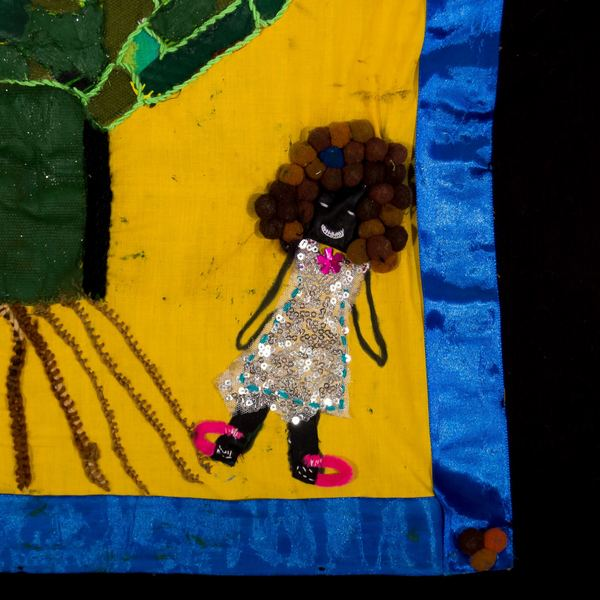
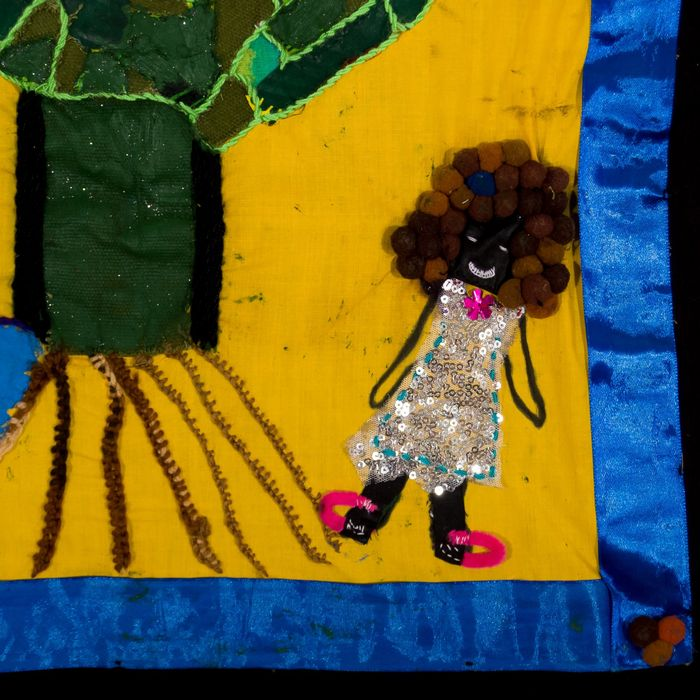
Living image mosaic on front page; new Mwangaza images; Albert Street full width with chapter link
Claude-Session: https://claude.ai/code/session_016WqrjqMFQFAt2AaBa5heCa

diff --git a/index.html b/index.html
@@ -108,7 +108,18 @@ p { margin: 0; }
 .mosaic { margin: 0; position: relative; z-index: 0; }
 .mosaic::before { content: ""; position: absolute; inset: -18px 22px 44px -18px; background: var(--cobalt); z-index: -1; }
 .tiles { display: grid; grid-template-columns: repeat(3, minmax(0, 1fr)); gap: 6px; background: #0b2545; padding: 6px; box-shadow: 0 30px 60px -20px rgba(11,37,69,.45); }
-.tiles img { display: block; width: 100%; height: auto; aspect-ratio: 1; object-fit: cover; min-width: 0; }
+.tile { position: relative; aspect-ratio: 1; overflow: hidden; background: #0b2545; min-width: 0; }
+.tile img { position: absolute; inset: 0; width: 100%; height: 100%; object-fit: cover; display: block; opacity: 0; }
+.tile img:first-child { opacity: 1; }
+@media (prefers-reduced-motion: no-preference) {
+  .tile img { animation: tilefade 18s infinite; }
+  .tile img:nth-child(1) { animation-delay: var(--d, 0s); }
+  .tile img:nth-child(2) { animation-delay: calc(var(--d, 0s) - 12s); }
+  .tile img:nth-child(3) { animation-delay: calc(var(--d, 0s) - 6s); }
+  .tile.d1 { --d: -1.5s; } .tile.d2 { --d: -3s; } .tile.d3 { --d: -4.5s; }
+  .tile img { will-change: opacity, transform; }
+}
+@keyframes tilefade { 0% { opacity: 1; transform: scale(1); } 30% { opacity: 1; } 36% { opacity: 0; transform: scale(1.06); } 94% { opacity: 0; transform: scale(1); } 100% { opacity: 1; } }
 .tiles .t-wide { grid-column: 1 / -1; aspect-ratio: 1600 / 932; }
 .mosaic figcaption { font-size: .8rem; color: var(--muted); margin-top: .9rem; text-align: right; }
 .creds { border-top: 1px solid var(--rule); }
@@ -242,7 +253,11 @@ p { margin: 0; }
 .quote cite { display: block; font-family: var(--sans); font-style: normal; font-size: .8rem; color: var(--on-dark-muted); margin-top: .7rem; letter-spacing: .02em; }
 .wide { margin: 0; }
 .wide img { display: block; width: 100%; height: auto; }
-.strip { display: grid; grid-template-columns: repeat(3, minmax(0, 1fr)); gap: .75rem; }
+.strip { display: grid; grid-template-columns: repeat(4, minmax(0, 1fr)); gap: .75rem; }
+.strip .wide { grid-column: span 2; grid-row: span 2; aspect-ratio: auto; }
+.creative .right { display: grid; gap: 1.5rem; }
+.creative .words { margin: 0; }
+.creative .words img { display: block; width: 100%; height: auto; box-shadow: 0 18px 40px -18px rgba(0,0,0,.6); transform: rotate(-1.2deg); }
 .strip figure { margin: 0; aspect-ratio: 1; overflow: hidden; }
 .strip .paper { background: #fff; padding: 1rem; }
 .strip img { width: 100%; height: 100%; object-fit: cover; display: block; transition: transform .5s ease; }
@@ -258,6 +273,17 @@ p { margin: 0; }
 .dresses img { width: 100%; height: 100%; object-fit: cover; display: block; transition: transform .5s ease; }
 .dresses figure:hover img { transform: scale(1.04); }
 .wb-credit { grid-column: 1 / -1; font-size: .82rem; color: var(--on-dark-muted); }
+.creative { overflow-x: clip; }
+.wardrobe { margin-top: 3.5rem; padding-top: 0; border-top: 0; display: block; }
+.wb-hero { position: relative; isolation: isolate; margin-inline: calc(50% - 50vw); padding-block: clamp(3rem, 7vw, 5.5rem); }
+.wb-bg { position: absolute; inset: 0; width: 100%; height: 100%; object-fit: cover; object-position: center 45%; z-index: -2; filter: grayscale(1); }
+.wb-hero::after { content: ""; position: absolute; inset: 0; z-index: -1; background: linear-gradient(90deg, rgba(7,18,34,.92) 0%, rgba(7,18,34,.78) 45%, rgba(7,18,34,.55) 100%); }
+.wb-inner { display: grid; grid-template-columns: minmax(0, 1fr) minmax(0, 1.4fr); gap: 1rem clamp(2rem, 5vw, 5rem); }
+.wb-place { color: var(--on-dark-muted); font-size: .9rem; margin-top: .6rem; }
+.wb-text { color: #d4def0; }
+.wardrobe .dresses { margin-top: .75rem; }
+.wardrobe .wb-credit { margin-top: .75rem; }
+.wb-text .links { margin-top: .5rem; }
 .wb-text strong { color: var(--on-dark); font-weight: 600; }
 .creative .foot { display: flex; flex-wrap: wrap; justify-content: space-between; align-items: center; gap: 1rem 2rem; margin-top: 1.5rem; }
 .creative .foot small { color: var(--on-dark-muted); font-size: .82rem; }
@@ -331,7 +357,7 @@ footer .wrap { padding-block: 1.5rem; display: flex; flex-wrap: wrap; gap: .5rem
   .top nav a:not(.cta) { display: none; }
 }
 @media (max-width: 720px) {
-  .wardrobe, .hero .wrap, .about .wrap, .creative .intro, .contact .wrap, .expertise, .clients { grid-template-columns: minmax(0, 1fr); }
+  .wb-inner, .hero .wrap, .about .wrap, .creative .intro, .contact .wrap, .expertise, .clients { grid-template-columns: minmax(0, 1fr); }
   .about .sec-head { position: static; }
   .about dl { grid-template-columns: minmax(0, 1fr); }
   .svc-grid, .work-grid, .bg-grid, .media-list { grid-template-columns: minmax(0, 1fr); }
@@ -344,6 +370,7 @@ footer .wrap { padding-block: 1.5rem; display: flex; flex-wrap: wrap; gap: .5rem
   .pc { min-height: 14rem; }
   .mosaic { margin-left: 18px; }
   .strip { grid-template-columns: repeat(2, minmax(0, 1fr)); }
+  .strip .wide { grid-row: auto; aspect-ratio: 1600 / 932; }
   .strip .paper { grid-column: 1 / -1; }
   .pubs li { grid-template-columns: minmax(0, 1fr); gap: .3rem; }
   .top img { height: 48px; }
@@ -383,12 +410,28 @@ footer .wrap { padding-block: 1.5rem; display: flex; flex-wrap: wrap; gap: .5rem
       </div>
       <figure class="mosaic">
         <div class="tiles">
-          <img class="t-wide" src="art-panels.jpg" alt="Large textile quilt with a blue and yellow wax-print border and six colourful collage panels on black cloth" width="1600" height="932">
-          <img src="art-quilt.jpg" alt="Textile quilt with Mwangaza Mama 2017–2019 embroidered on red, around a drawing of a woman and child" width="1000" height="939">
-          <img src="art-beads.jpg" alt="Detail of a red collage with beads, pom-poms and felt balls" width="600" height="600">
-          <img src="art-girl.jpg" alt="Detail of a smiling girl in a sequinned dress beside a tree on yellow fabric" width="600" height="600">
+          <div class="tile t-wide d0">
+            <img src="art-panels.jpg" alt="Group textile quilt from the Mwangaza Mama project">
+            <img src="albert-street.jpg" alt="80 Albert Street, Johannesburg, in black and white" loading="lazy">
+            <img src="svc-quilt.jpg" alt="Red textile collage with handwritten stories stitched on" loading="lazy">
+          </div>
+          <div class="tile d1">
+            <img src="art-quilt.jpg" alt="Mwangaza Mama title quilt">
+            <img src="wb-dress1.jpg" alt="Sculpted dress from the Wardrobe Project" loading="lazy">
+            <img src="art-becky.jpg" alt="Purple collage panel with Becky stitched above it" loading="lazy">
+          </div>
+          <div class="tile d2">
+            <img src="art-beads.jpg" alt="Beads and pom-poms on a red collage">
+            <img src="svc-workshop.jpg" alt="Hands drawing with oil pastels on brown paper in a workshop" loading="lazy">
+            <img src="wb-dress2.jpg" alt="Sculpted dress with a white feathered bodice" loading="lazy">
+          </div>
+          <div class="tile d3">
+            <img src="art-girl.jpg" alt="Stitched figure of a girl in a sequinned dress">
+            <img src="art-words.jpg" alt="Handwritten panel: In the city we have no power" loading="lazy">
+            <img src="wb-dress3.jpg" alt="Sculpted dress in grey and silver over red" loading="lazy">
+          </div>
         </div>
-        <figcaption>Textile collages from the Mwangaza Mama project, Johannesburg · <a href="#creative">About the project</a></figcaption>
+        <figcaption>From my work: Mwangaza Mama, the Wardrobe Project and 80 Albert Street · <a href="#creative">Creative methods</a></figcaption>
       </figure>
     </div>
     <div class="creds">
@@ -571,12 +614,17 @@ footer .wrap { padding-block: 1.5rem; display: flex; flex-wrap: wrap; gap: .5rem
           <p><strong>Mwangaza Mama (2017 to 2019)</strong> was a two-year creative storytelling project with a small group of cross-border migrant women in Johannesburg. Through textile collage and their own stories, the women explored everyday life in the city and the issues that affect them.</p>
           <p>Arts-based methods like these help people speak for themselves, across language barriers.</p>
         </div>
-        <blockquote class="quote">"I will speak with confidence and no fear like Winnie Mandela."<cite>Stitched on the group quilt</cite></blockquote>
+        <div class="right">
+          <figure class="words"><img src="art-words.jpg" alt="Handwritten panel stitched onto red cloth: In the city we come, we have no power and things are very different from what we hope. We have nowhere to go, it's not easy to go back and nowhere to begin. We are in confusion." loading="lazy"></figure>
+          <blockquote class="quote">"I will speak with confidence and no fear like Winnie Mandela."<cite>Stitched on the group quilt</cite></blockquote>
+        </div>
       </div>
       <div class="strip">
+        <figure class="wide"><img src="art-panels.jpg" alt="The group quilt: six collage panels, each with its maker's name, around the words I will speak with confidence and no fear like Winnie Mandela" loading="lazy"></figure>
+        <figure><img src="art-becky.jpg" alt="Purple collage panel of patterned fabric shapes, with Becky stitched in white above it" loading="lazy"></figure>
+        <figure><img src="art-girl.jpg" alt="Stitched figure of a smiling girl in a sequinned dress beside a tree on yellow cloth" loading="lazy"></figure>
         <figure class="paper"><img src="drawing.jpg" alt="Pencil drawing of a woman carrying a bag, holding a small child's hand, walking towards tall buildings in Johannesburg" loading="lazy"></figure>
         <figure><img src="art-houses.jpg" alt="Detail of hessian houses stitched under glittering green trees" loading="lazy"></figure>
-        <figure><img src="art-figures.jpg" alt="Detail of patterned fabric figures outlined in green stitching" loading="lazy"></figure>
       </div>
       <div class="foot">
         <small>Textile collages made by the women of the Mwangaza Mama project.</small>
@@ -587,16 +635,21 @@ footer .wrap { padding-block: 1.5rem; display: flex; flex-wrap: wrap; gap: .5rem
         </div>
       </div>
       <div class="wardrobe">
-        <div>
-          <span class="label">Creative methods</span>
-          <h3>The Wardrobe Project</h3>
-          <figure class="albert"><img src="albert-street.jpg" alt="Black and white photograph of a brick building, high walls and wire mesh fencing in the courtyard at 80 Albert Street, Johannesburg" width="1200" height="965" loading="lazy"><figcaption>80 Albert Street, Johannesburg</figcaption></figure>
-        </div>
+        <div class="wb-hero">
+          <img class="wb-bg" src="albert-street.jpg" alt="" aria-hidden="true" loading="lazy">
+          <div class="wrap wb-inner">
+            <div>
+              <span class="label">Creative methods</span>
+              <h3>The Wardrobe Project</h3>
+              <p class="wb-place">80 Albert Street, Johannesburg</p>
+            </div>
         <div class="wb-text">
-          <p><strong>The Wardrobe Project (2011 to 2014)</strong> was an art-based project with women living at the Usindiso Women's Shelter, 80 Albert Street, in inner-city Johannesburg. I co-ran it with Dr Glynis Clacherty from 2011 until the shelter closed in 2014.</p>
-          <p>Like Mwangaza Mama, it used art and making to create a space where women could tell their own stories in their own way.</p>
-          <p>In 2023, a fire at 80 Albert Street killed 76 people. I wrote about the building and its history in the Daily Maverick soon after. I still think often about the aftermath, and how quickly the City of Johannesburg moved to blame the dead for their own deaths. We continue to see the same callousness and dehumanisation of people today.</p>
-          <div class="links"><a class="btn solid" href="https://www.dailymaverick.co.za/article/2023-09-03-a-building-and-lives-left-to-burn-80-albert-street-must-be-remembered-in-this-way/">Read "A building and lives left to burn" ↗</a></div>
+              <p><strong>The Wardrobe Project (2011 to 2014)</strong> was an art-based project with women living at the Usindiso Women's Shelter, 80 Albert Street, in inner-city Johannesburg. I co-ran it with Dr Glynis Clacherty from 2011 until the shelter closed in 2014.</p>
+              <p>Like Mwangaza Mama, it used art and making to create a space where women could tell their own stories in their own way. Glynis and I wrote about the project in "Shaping New Spaces", a chapter in <i>Healing and Change in the City of Gold</i> (Springer, 2015).</p>
+              <p>In 2023, a fire at 80 Albert Street killed 76 people. I wrote about the building and its history in the Daily Maverick soon after. I still think often about the aftermath, and how quickly the City of Johannesburg moved to blame the dead for their own deaths. We continue to see the same callousness and dehumanisation of people today.</p>
+              <div class="links"><a class="btn solid" href="https://link.springer.com/chapter/10.1007/978-3-319-08768-9_3">Read our chapter, "Shaping New Spaces" ↗</a><a class="btn" href="https://www.dailymaverick.co.za/article/2023-09-03-a-building-and-lives-left-to-burn-80-albert-street-must-be-remembered-in-this-way/">Read "A building and lives left to burn" ↗</a></div>
+            </div>
+          </div>
         </div>
         <div class="dresses">
           <figure><img src="wb-dress1.jpg" alt="Sculpted dress on a mannequin, with handwritten words on the bodice and a deep purple skirt" loading="lazy"></figure>
